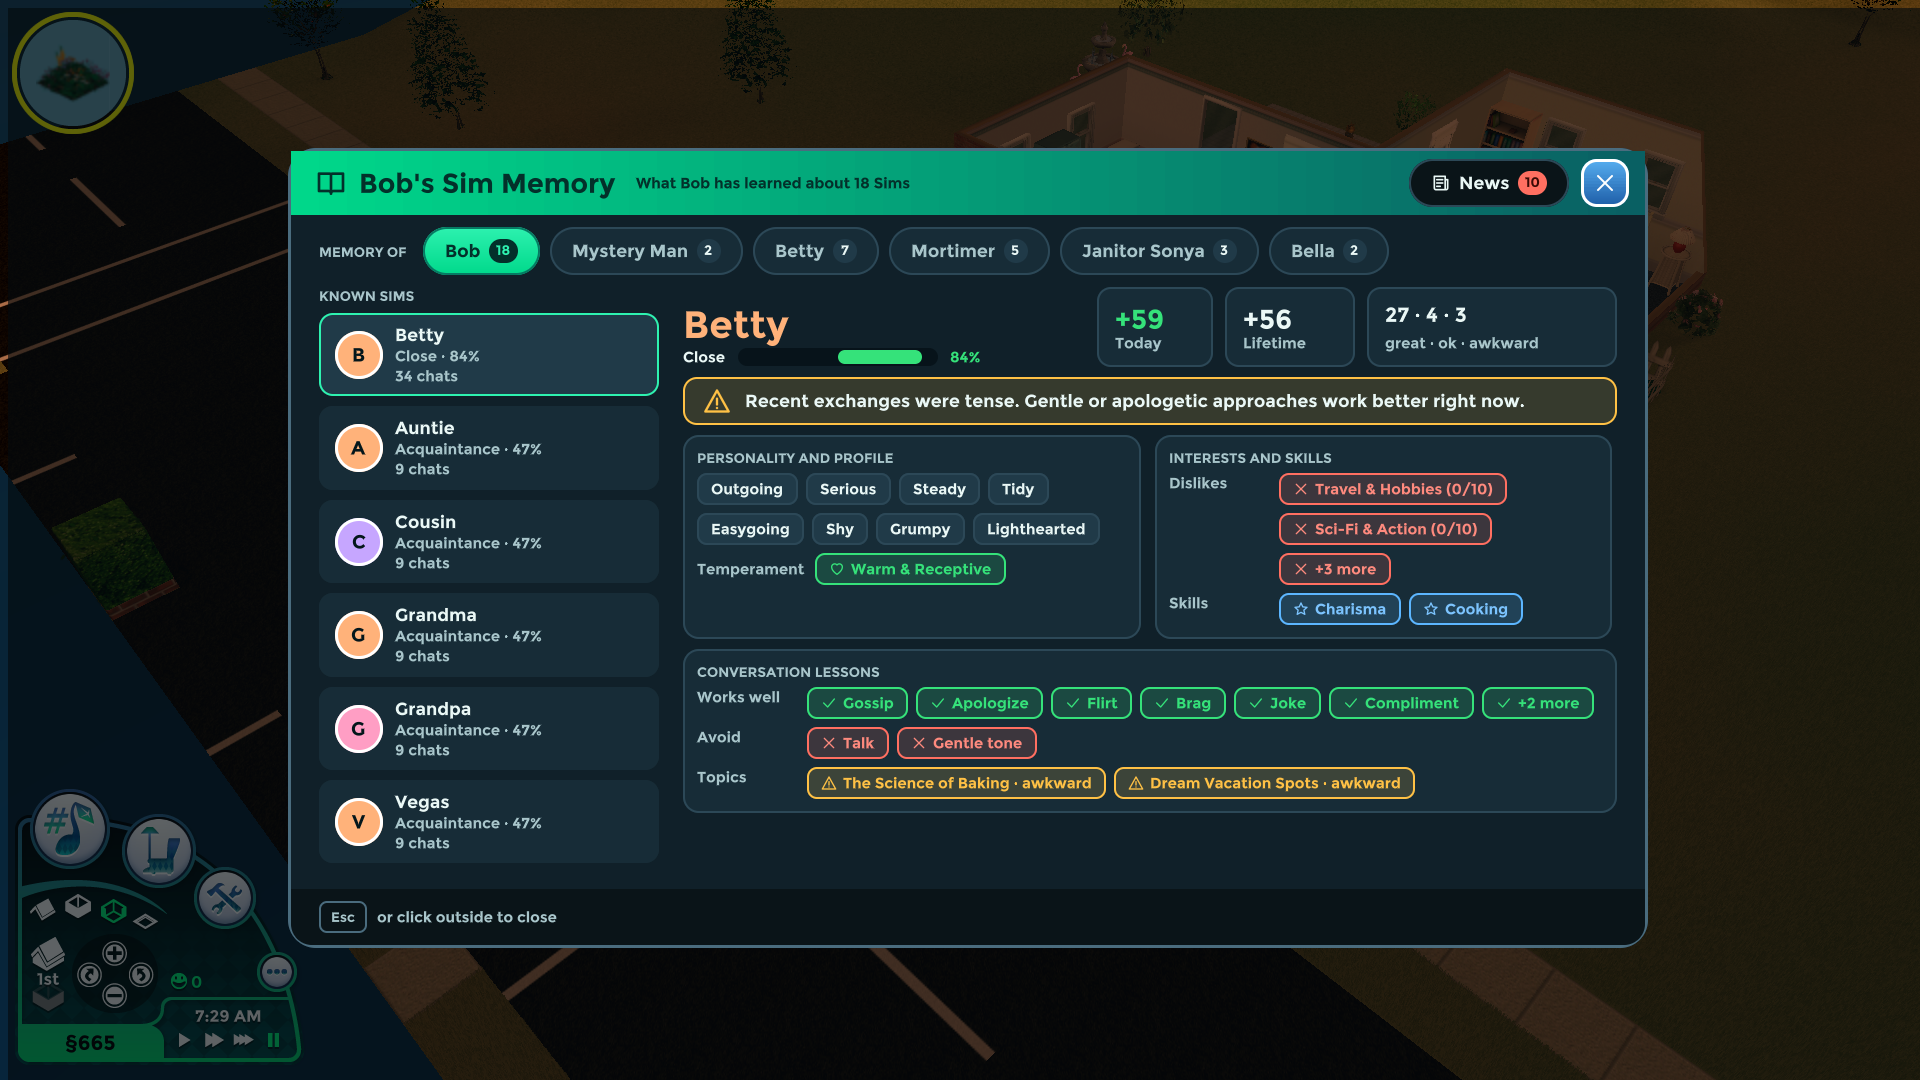
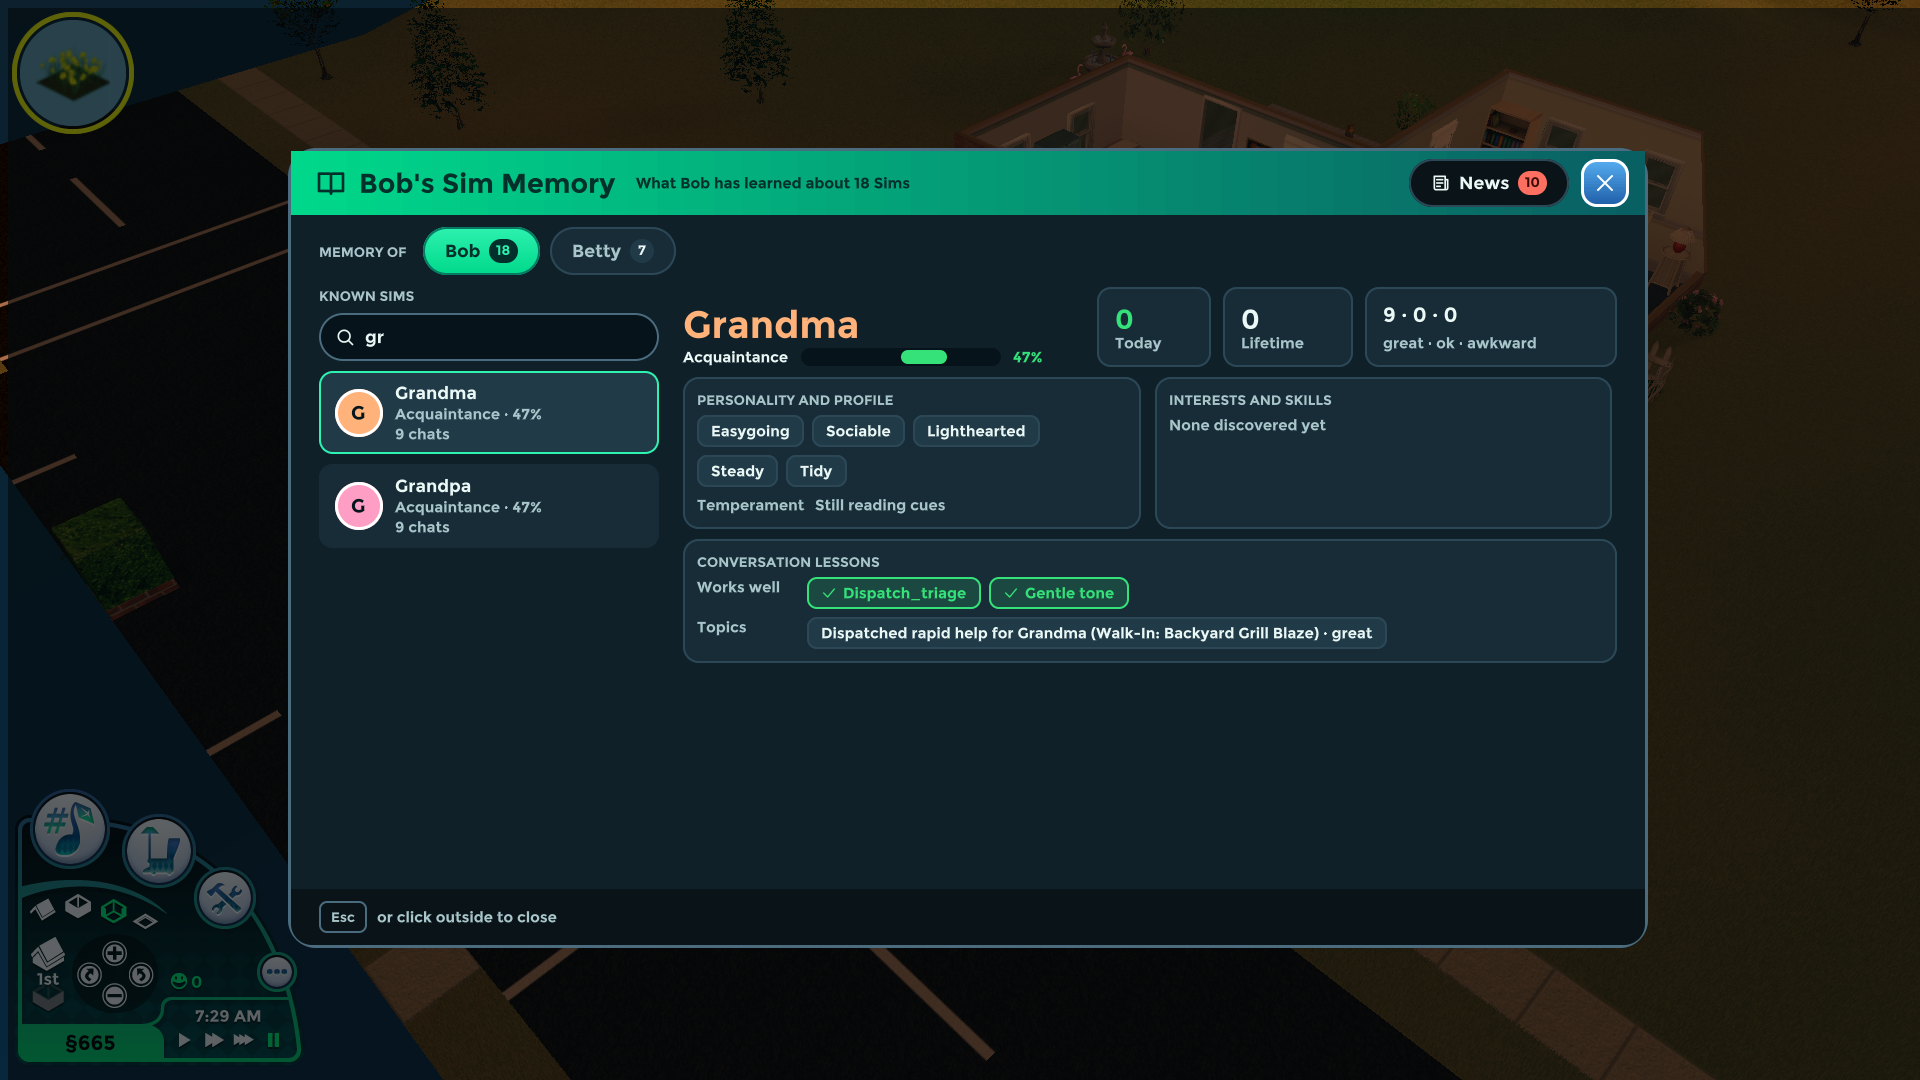
Sim Memory: 'Memory of' shows only the household; Known Sims search field (typed, Esc clears)

diff --git a/Tools/HtmlUi/ui/sim_memory.html b/Tools/HtmlUi/ui/sim_memory.html
@@ -18,6 +18,8 @@
   <div style="flex-direction: row; gap: 24px; padding: 12px 28px 14px 28px; flex-grow: 1; flex-shrink: 1; overflow: hidden;">
     <div style="width: 340px; flex-direction: column; gap: 10px; flex-shrink: 0; overflow: hidden;">
       <span class="t-over">Known Sims</span>
+      <div class="search"><span class="ic s20 i-search"></span><!--#if searchEmpty--><span class="muted">Search Sims</span><!--#else--><span>{{search}}</span><!--/if--></div>
+      <!--#if noMatches--><div class="card"><span class="t-body">No Sims match "{{search}}".</span></div><!--/if-->
       <!--#each known-->
       <div class="row<!--#if selected--> sel<!--/if-->" data-action="pick-{{#}}">
         <div class="avatar" style="background-color: var(--sim-{{sim}});">{{letter}}</div>
@@ -104,7 +106,7 @@
         <!--#if card.topics--><div class="lesson"><span class="k">Topics</span><div class="chips"><!--#each card.topics--><div class="chip<!--#if awkward--> warn<!--/if-->"><!--#if awkward--><span class="ic s16 i-alert"></span><!--/if--><span>{{title}} · {{outcome}}</span></div><!--/each--></div></div><!--/if-->
       </div>
       <!--#else-->
-      <div class="card"><span class="t-display">Nothing learned yet</span><span class="t-body">{{speakerName}} has not talked with anyone yet. Use Talk, or let Sims chat on their own in the same room. Every conversation records traits, interests, skills, temperament and what approaches work best.</span></div>
+      <!--#if noMatches--><!--#else--><div class="card"><span class="t-display">Nothing learned yet</span><span class="t-body">{{speakerName}} has not talked with anyone yet. Use Talk, or let Sims chat on their own in the same room. Every conversation records traits, interests, skills, temperament and what approaches work best.</span></div><!--/if-->
       <!--/if-->
     </div>
     <!--/if-->

diff --git a/Tools/HtmlUi/ui/sims-ui.css b/Tools/HtmlUi/ui/sims-ui.css
@@ -90,3 +90,6 @@ body { width: 100%; height: 100%; display: flex; align-items: center; justify-co
 .orow .sub { font-size: 16px; line-height: 20px; font-weight: 500; color: var(--text-2); }
 .btn.primary { border-color: var(--accent-deep); background-image: linear-gradient(180deg, var(--accent), var(--accent-2)); color: var(--on-accent); }
 .btn.quit { border-color: var(--bad); background-image: none; background-color: var(--bad-a16); color: var(--bad-ink); }
+
+/* search field: a typed-into box (the page only shows the text; the window feeds the keys) */
+.search { flex-direction: row; align-items: center; gap: 10px; min-height: 48px; padding-left: 14px; padding-right: 14px; border-radius: var(--r-pill); background-color: var(--track); border: 2px solid var(--line-strong); color: var(--text); font-size: 18px; font-weight: 600; }

diff --git a/Tools/Conversations/Game/SimMemoryMenu.cs b/Tools/Conversations/Game/SimMemoryMenu.cs
@@ -1,4 +1,5 @@
 using System;
+using System.Reflection;
 using System.Collections.Generic;
 using System.IO;
 using System.Linq;
@@ -40,6 +41,8 @@ namespace Simitone.Conversations
         string selectedSpeakerName = "";
         string selectedListenerKey = "";
         int scrollOffset;
+        readonly System.Text.StringBuilder search = new System.Text.StringBuilder();   // typed into the Known Sims search field
+        int totalKnown;
         string newsFilter = "all"; bool newsAll;   // the News tab: which stories, and whether all of them are listed
         SimMemorySnapshot snapshot = new SimMemorySnapshot();
         double refreshTimer;
@@ -164,6 +167,7 @@ namespace Simitone.Conversations
             speakers.Clear();
             var seen = new HashSet<string>(StringComparer.OrdinalIgnoreCase);
             string activeKey = null, activeName = null;
+            HashSet<string> familyKeys = null;
 
             // 1. Add currently active Sim & lot avatars first so they're always selectable
             try
@@ -186,12 +190,14 @@ namespace Simitone.Conversations
                 }
                 if (vm != null && vm.Ready)
                 {
-                    foreach (var av in vm.Entities.OfType<VMAvatar>().Where(a => !a.Dead && !a.IsPet && a.GetPersonData(VMPersonDataVariable.PersonsAge) >= 18))
+                    var family = FamilyGuids(screen);
+                    foreach (var av in vm.Entities.OfType<VMAvatar>().Where(a => !a.Dead && !a.IsPet && (family != null ? family.Contains(av_guid(a)) : a.GetPersonData(VMPersonDataVariable.PersonsAge) >= 18)))
                     {
                         var k = KeyOf(av);
                         if (seen.Add(k))
                             speakers.Add(new SpeakerIdentity { Key = k, Name = SafeName(av.Name), KnownCount = Boot.Memory.GetKnownSims(k).Count });
                     }
+                    if (family != null) familyKeys = new HashSet<string>(speakers.Select(x => x.Key), StringComparer.OrdinalIgnoreCase);
                 }
             }
             catch { }
@@ -199,6 +205,7 @@ namespace Simitone.Conversations
             // 2. Add any other Sims present in persisted SocialMemory
             foreach (var sp in Boot.Memory.GetAllSpeakers())
             {
+                if (familyKeys != null && !familyKeys.Contains(sp.Key)) continue;   // the household only: other Sims' memories are not shown
                 if (seen.Add(sp.Key)) speakers.Add(sp);
             }
 
@@ -228,6 +235,8 @@ namespace Simitone.Conversations
             }
 
             snapshot = SimMemoryViewModel.Build(Boot.Memory, selectedSpeakerKey, selectedSpeakerName, Boot.Subjects);
+            totalKnown = snapshot.KnownSims.Count;
+            if (search.Length > 0) snapshot.KnownSims.RemoveAll(k => !SimMemoryPageData.NameMatches(k.ListenerName, search.ToString()));
             if (snapshot.KnownSims.Count == 0)
             {
                 selectedListenerKey = "";
@@ -238,6 +247,21 @@ namespace Simitone.Conversations
                 selectedListenerKey = snapshot.KnownSims[0].ListenerKey;
                 scrollOffset = 0;
             }
+        }
+
+        static uint av_guid(VMAvatar a) { try { return a.Object.OBJ.GUID; } catch { return 0; } }
+
+        // GUIDs of the Sims in the household being played (FAMI.FamilyGUIDs of the screen's ActiveFamily); null when it cannot be read
+        static HashSet<uint> FamilyGuids(object screen)
+        {
+            try
+            {
+                var fam = screen == null ? null : screen.GetType().GetField("ActiveFamily", BindingFlags.Instance | BindingFlags.Public | BindingFlags.NonPublic).GetValue(screen);
+                if (fam == null) fam = screen.GetType().GetProperty("ActiveFamily", BindingFlags.Instance | BindingFlags.Public | BindingFlags.NonPublic).GetValue(screen, null);
+                var guids = fam == null ? null : fam.GetType().GetField("FamilyGUIDs").GetValue(fam) as uint[];
+                return guids == null || guids.Length == 0 ? null : new HashSet<uint>(guids);
+            }
+            catch { return null; }
         }
 
         static string KeyOf(VMAvatar a)
@@ -271,9 +295,11 @@ namespace Simitone.Conversations
             if (esc && !prevEscDown)
             {
                 prevEscDown = true;
+                if (search.Length > 0) { search.Clear(); scrollOffset = 0; RefreshData(null, false); return; }   // Esc clears the search first, then closes
                 Close();
                 return;
             }
+            if (UseHtml && !showNews) TypeIntoSearch(state);
             prevEscDown = esc;
 
             if (UseHtml)
@@ -556,13 +582,40 @@ namespace Simitone.Conversations
             if (htmlDirty)
             {
                 htmlDirty = false;
-                var data = SimMemoryPageData.Build(snapshot, speakers, selectedSpeakerKey, selectedListenerKey, showNews, CurrentNews(), selectedSpeakerName, newsFilter, newsAll);
+                var data = SimMemoryPageData.Build(snapshot, speakers, selectedSpeakerKey, selectedListenerKey, showNews, CurrentNews(), selectedSpeakerName, newsFilter, newsAll, search.ToString(), totalKnown);
                 var known = data["known"] as List<object>;
                 if (known != null && scrollOffset > 0) data["known"] = known.Skip(Math.Min(scrollOffset, known.Count)).ToList();
                 string key = Newtonsoft.Json.JsonConvert.SerializeObject(data);
                 if (key != htmlKey) { htmlKey = key; surface.SetData(data, key); }
             }
             surface.Draw(batch);
+        }
+
+        // keys typed while the Dossier is open go to the search field (the game's own text routine: letters, Backspace, Delete, Ctrl+Backspace)
+        void TypeIntoSearch(UpdateState state)
+        {
+            try
+            {
+                int before = search.Length; string was = search.ToString();
+                var r = state.InputManager.ApplyKeyboardInput(search, state, -1, -1, true);
+                // a keyboard that only reports key presses (no text events, like the test hook) still types letters, digits and space
+                bool noText = state.FrameTextInput == null || state.FrameTextInput.Count == 0;
+                if (noText && search.ToString() == was)
+                {
+                    bool shift = state.KeyboardState.IsKeyDown(Keys.LeftShift) || state.KeyboardState.IsKeyDown(Keys.RightShift);
+                    foreach (var k in state.NewKeys)
+                        if ((k >= Keys.A && k <= Keys.Z) || (k >= Keys.D0 && k <= Keys.D9) || k == Keys.Space)
+                        {
+                            char c = FSO.Common.Rendering.Framework.IO.InputManager.TranslateChar(k, shift, state.KeyboardState.CapsLock, false);
+                            if (c != 0) search.Append(c);
+                        }
+                }
+                if (r == null) return;
+                search.Replace("\r", "").Replace("\n", "").Replace("\t", "");
+                if (search.Length > 40) search.Length = 40;
+                if (search.ToString() != was) { scrollOffset = 0; htmlDirty = true; RefreshData(null, false); }
+            }
+            catch (Exception e) { Boot.Log("search typing: " + e.Message); }
         }
 
         void OnPageAction(string action)

diff --git a/Tools/Conversations/Logic/SimMemoryPageData.cs b/Tools/Conversations/Logic/SimMemoryPageData.cs
@@ -9,7 +9,7 @@ namespace Simitone.Conversations
     public static class SimMemoryPageData
     {
         public static Dictionary<string, object> Build(SimMemorySnapshot snap, IList<SpeakerIdentity> speakers, string selectedSpeakerKey,
-            string selectedListenerKey, bool showNews, IList<NewsEntry> news, string speakerName, string newsFilter = "all", bool newsAll = false)
+            string selectedListenerKey, bool showNews, IList<NewsEntry> news, string speakerName, string newsFilter = "all", bool newsAll = false, string search = "", int totalKnown = -1)
         {
             speakerName = string.IsNullOrWhiteSpace(speakerName) ? (snap != null ? snap.SpeakerName : "Sim") : speakerName;
             var d = new Dictionary<string, object>
@@ -21,7 +21,7 @@ namespace Simitone.Conversations
                 { "title", speakerName + "'s Sim Memory" },
                 { "subtitle", showNews
                     ? "What " + speakerName + " saw or heard about other Sims"
-                    : "What " + speakerName + " has learned about " + (snap.KnownSims.Count == 1 ? "1 Sim" : snap.KnownSims.Count + " Sims") },
+                    : "What " + speakerName + " has learned about " + (TotalOf(snap, totalKnown) == 1 ? "1 Sim" : TotalOf(snap, totalKnown) + " Sims") },
                 { "switchLabel", showNews ? "Dossier" : "News" },
                 { "switchIcon", showNews ? "book" : "news" },
             };
@@ -32,6 +32,9 @@ namespace Simitone.Conversations
                 { "active", string.Equals(s.Key, selectedSpeakerKey, StringComparison.OrdinalIgnoreCase) },
             }).ToList();
 
+            d["search"] = search ?? "";
+            d["searchEmpty"] = string.IsNullOrEmpty(search);
+            d["noMatches"] = !string.IsNullOrEmpty(search) && snap.KnownSims.Count == 0 && TotalOf(snap, totalKnown) > 0;
             var selected = snap.KnownSims.FirstOrDefault(k => string.Equals(k.ListenerKey, selectedListenerKey, StringComparison.OrdinalIgnoreCase))
                            ?? snap.KnownSims.FirstOrDefault();
             d["known"] = snap.KnownSims.Select(k => (object)new Dictionary<string, object>
@@ -57,6 +60,14 @@ namespace Simitone.Conversations
             d["newsFooter"] = (news == null ? 0 : news.Count) + (news != null && news.Count == 1 ? " story" : " stories");
             d["newsHint"] = "Newest first. Certainty shows how sure " + speakerName + " is.";
             return d;
+        }
+
+        static int TotalOf(SimMemorySnapshot snap, int total) { return total >= 0 ? total : snap.KnownSims.Count; }
+
+        // the Known Sims search: a name contains the typed text (any case)
+        public static bool NameMatches(string name, string search)
+        {
+            return string.IsNullOrWhiteSpace(search) || (name ?? "").IndexOf(search.Trim(), StringComparison.OrdinalIgnoreCase) >= 0;
         }
 
         // the News filter: all | saw (they saw it) | heard (told by someone, or only a guess) | mismatch (their version differs from what happened)

diff --git a/Tools/Conversations.Tests/UiPageTests.cs b/Tools/Conversations.Tests/UiPageTests.cs
@@ -254,6 +254,15 @@ namespace Conversations.Tests
             Assert.True((bool)none["newsNoMatch"]); Assert.False((bool)none["newsEmpty"]);
         }
 
+        [Fact]
+        public void PageData_SearchMatchesNamesAnyCase()
+        {
+            Assert.True(SimMemoryPageData.NameMatches("Betty Newbie", "newb")); Assert.True(SimMemoryPageData.NameMatches("Betty", "  "));
+            Assert.False(SimMemoryPageData.NameMatches("Betty", "bob"));
+            var d = SimMemoryPageData.Build(Snapshot(), new List<SpeakerIdentity>(), "n:2", "n:1", false, new List<NewsEntry>(), "Bob", "all", false, "zzz", 5);
+            Assert.Contains("5 Sims", (string)d["subtitle"]);
+        }
+
         static string FindPage(string name)
         {
             for (var d = new DirectoryInfo(AppContext.BaseDirectory); d != null; d = d.Parent)
